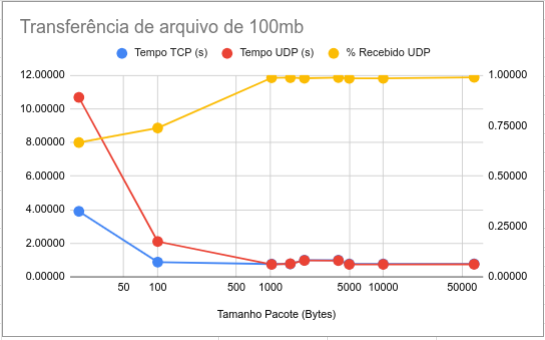
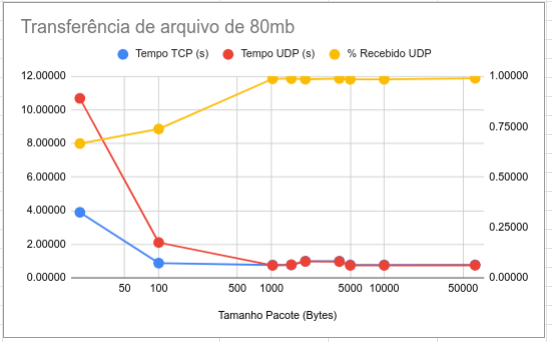
atualização legenda grafico

diff --git a/index.html b/index.html
@@ -158,12 +158,12 @@
       <p>
         Para testar os protocolos TCP e UDP foram realizado testes feitos para
         comparar a transfêrencia de um arquivo de 80MB e transfêrencia de dados
-        em memória principal de 100MB. Os testes foram feitos com o tamanho de
-        pacotes diversos em bytes: 64k, 10k, 5k, 1500, 1024, 100 e 20. Para cada
-        tamanho de pacote, foi realizado 5 execuções e foi feita uma média entre
-        elas para calcular o tempo de recebimento cliente TCP, tempo de
-        recebimento cliente UDP e a porcentagem de pacotes recebidos em relação
-        ao total do cliente UDP.
+        em memória principal de 1000000 bytes. Os testes foram feitos com o
+        tamanho de pacotes diversos em bytes: 64k, 10k, 5k, 1500, 1024, 100 e
+        20. Para cada tamanho de pacote, foi realizado 5 execuções e foi feita
+        uma média entre elas para calcular o tempo de recebimento cliente TCP,
+        tempo de recebimento cliente UDP e a porcentagem de pacotes recebidos em
+        relação ao total do cliente UDP.
       </p>
 
       <img
